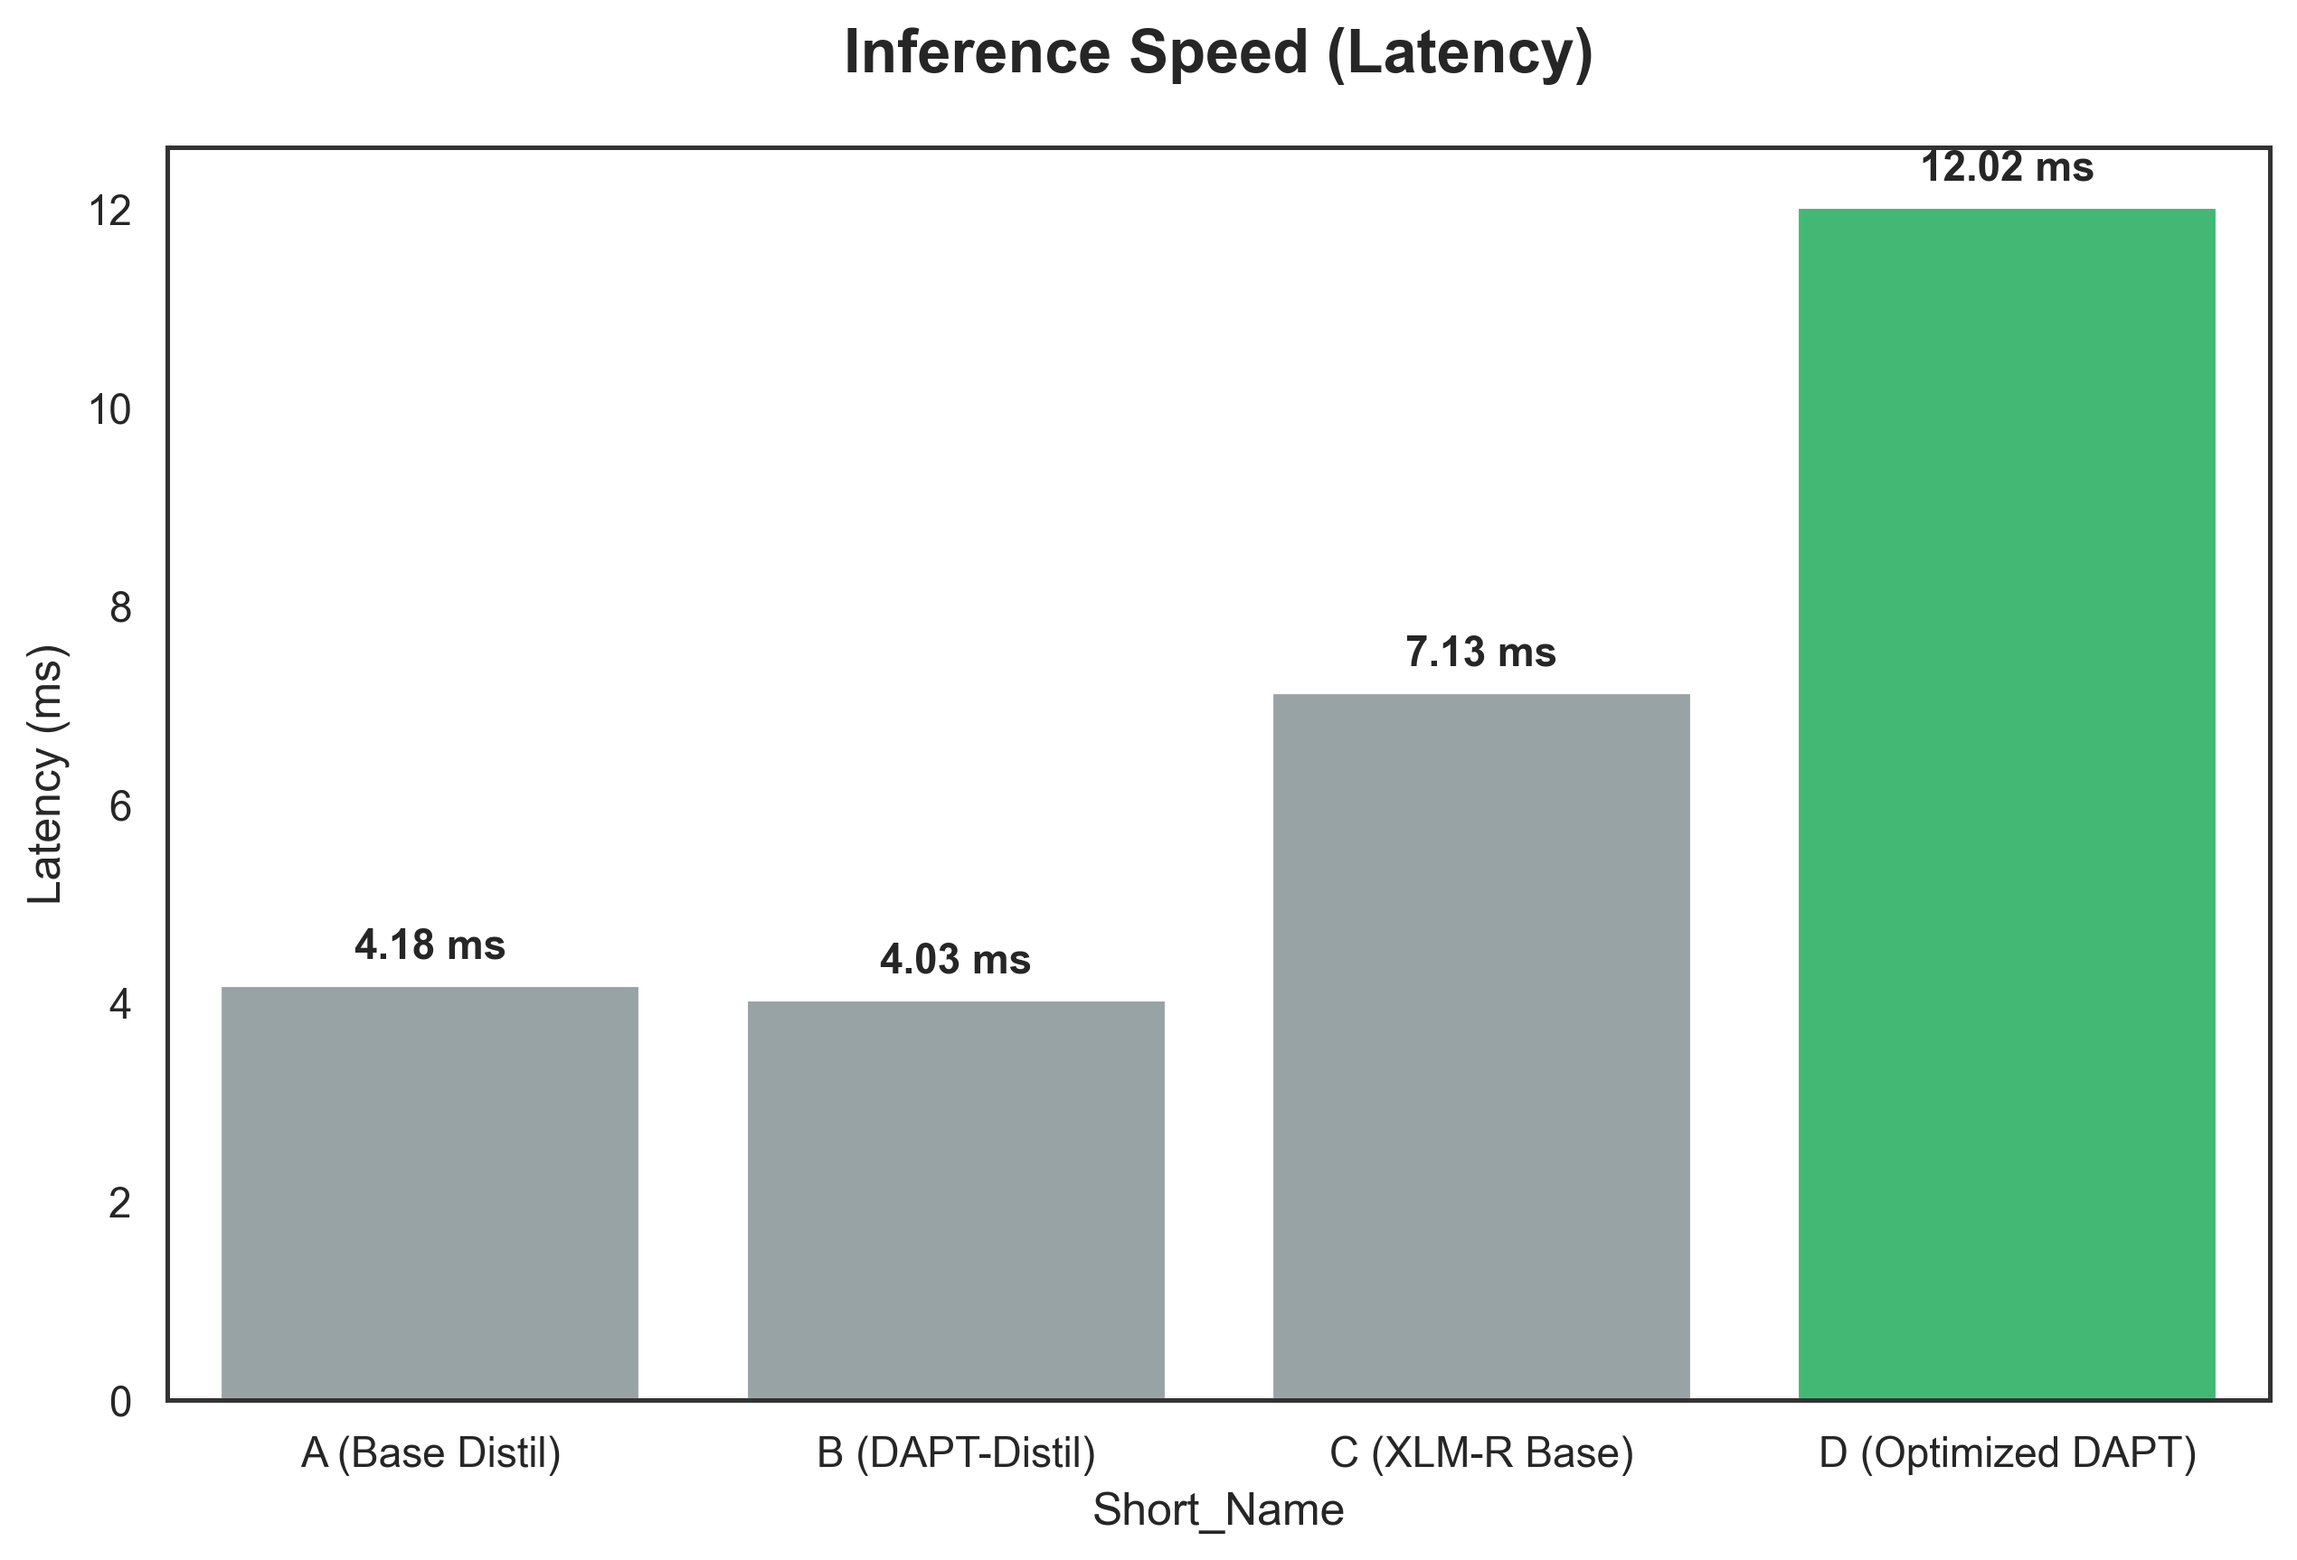
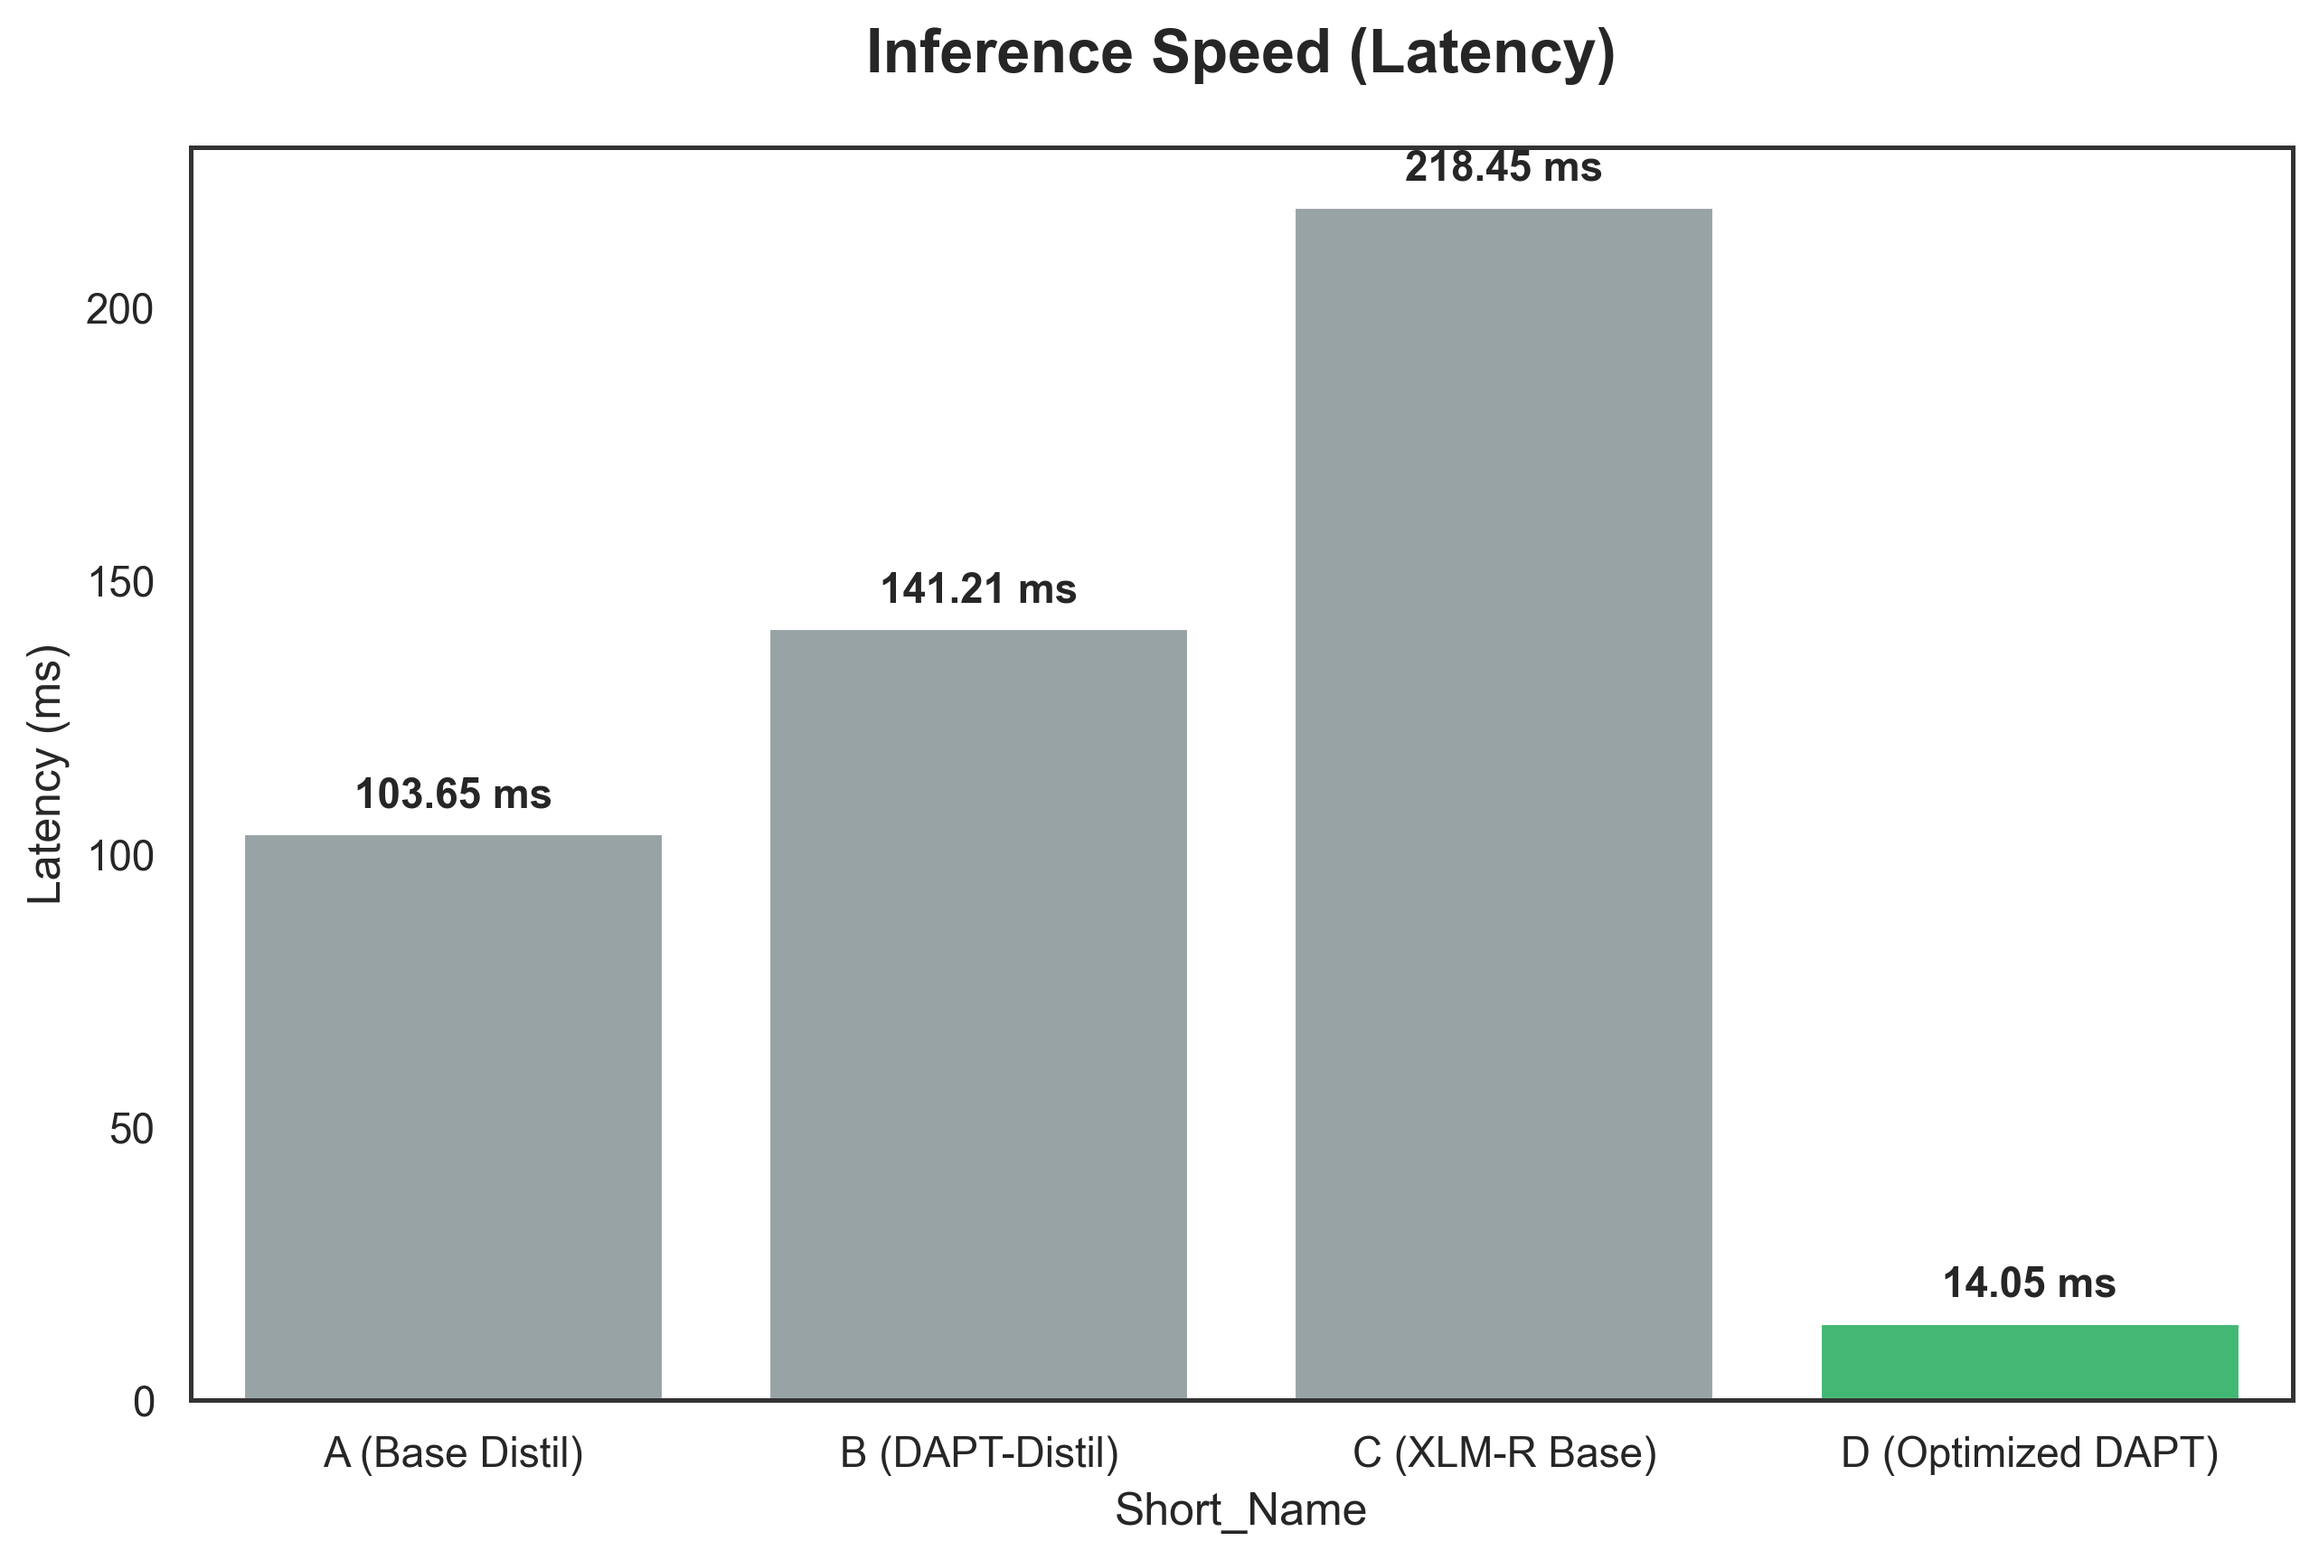
Update latency metrics and evaluation scripts for CPU benchmarking consistency

diff --git a/src/validation/08_evaluate_metrics.py b/src/validation/08_evaluate_metrics.py
@@ -18,28 +18,18 @@ set_seed(42)
 os.environ['CUBLAS_WORKSPACE_CONFIG'] = ':4096:8'
 torch.use_deterministic_algorithms(True, warn_only=True)
 
-# --- SUPER-AGGRESSIVE MONKEY PATCH FOR TRANSFORMERS ---
+# Force single-threaded CPU execution for absolute latency consistency
+torch.set_num_threads(1)
+
+# --- AGGRESSIVE COMPATIBILITY PATCHES ---
 import transformers
 import transformers.models.auto
-
 class MockAutoModelForVision2Seq:
     @classmethod
     def from_pretrained(cls, *args, **kwargs):
-        raise NotImplementedError("This is a mock class for compatibility.")
-
+        raise NotImplementedError("Mock class for compatibility.")
 setattr(transformers, "AutoModelForVision2Seq", MockAutoModelForVision2Seq)
 setattr(transformers.models.auto, "AutoModelForVision2Seq", MockAutoModelForVision2Seq)
-
-if "transformers" in sys.modules:
-    sys.modules["transformers"].AutoModelForVision2Seq = MockAutoModelForVision2Seq
-
-try:
-    if hasattr(transformers, "_import_structure"):
-        transformers._import_structure["models.auto"].append("AutoModelForVision2Seq")
-    if hasattr(transformers, "_class_to_module"):
-        transformers._class_to_module["AutoModelForVision2Seq"] = "models.auto"
-except Exception:
-    pass
 # ------------------------------------------------------
 
 # --- PATH CONFIGURATION ---
@@ -61,8 +51,7 @@ MODELS_TO_TEST = [
 
 def get_model_size_mb(path):
     total_size = 0
-    if not os.path.exists(path):
-        return 0
+    if not os.path.exists(path): return 0
     for dirpath, _, filenames in os.walk(path):
         for f in filenames:
             fp = os.path.join(dirpath, f)
@@ -76,11 +65,13 @@ def load_tokenizer_safe(model_path):
     except Exception:
         return AutoTokenizer.from_pretrained("distilbert-base-multilingual-cased")
 
-def evaluate_pytorch(path, texts, name):
+def evaluate_pytorch_cpu(path, texts, name):
+    """Forces PyTorch to use the CPU for fair hardware benchmarking."""
     tokenizer = load_tokenizer_safe(path)
     model = AutoModelForSequenceClassification.from_pretrained(path)
     
-    device = torch.device('cuda' if torch.cuda.is_available() else 'cpu')
+    # Strictly enforce CPU
+    device = torch.device('cpu')
     model.to(device)
     model.eval()
     
@@ -99,16 +90,24 @@ def evaluate_pytorch(path, texts, name):
             outputs = model(**inputs)
         end_time = time.perf_counter()
         
-        logits = outputs.logits.cpu().numpy()
+        logits = outputs.logits.numpy()
         preds.append(np.argmax(logits, axis=-1)[0])
         latencies.append((end_time - start_time) * 1000)
         
     return preds, latencies
 
-def evaluate_onnx(path, texts, name):
+def evaluate_onnx_cpu(path, texts, name):
+    """Evaluates the quantized ONNX model using the CPU runtime."""
     tokenizer = load_tokenizer_safe(path)
+    # provider is strictly CPU
     model = ORTModelForSequenceClassification.from_pretrained(path, provider="CPUExecutionProvider")
     
+    # Warmup to initialize the ONNX session properly
+    warmup_inputs = tokenizer(texts[0], return_tensors="pt", truncation=True, padding='max_length', max_length=128)
+    if "distilbert" in name.lower() and "token_type_ids" in warmup_inputs:
+        warmup_inputs.pop("token_type_ids")
+    _ = model(**warmup_inputs)
+
     preds = []
     latencies = []
     
@@ -128,7 +127,7 @@ def evaluate_onnx(path, texts, name):
     return preds, latencies
 
 def main():
-    print("--- STAGE 8: FINAL METRICS EVALUATION (DETERMINISTIC) ---")
+    print("--- STAGE 8: FINAL METRICS EVALUATION (FAIR CPU BENCHMARK) ---")
     
     if not os.path.exists(TEST_DATA_PATH):
         print(f"[ERROR] Test data not found: {TEST_DATA_PATH}")
@@ -141,9 +140,10 @@ def main():
     raw_results = []
     
     for model_id, name, path, runtime in MODELS_TO_TEST:
-        print(f"\nEvaluating {name}...")
+        print(f"\nEvaluating {name} strictly on CPU...")
         
         gc.collect()
+        # Ensure PyTorch releases GPU memory completely
         if torch.cuda.is_available():
             torch.cuda.empty_cache()
        
@@ -153,27 +153,33 @@ def main():
            
         try:
             if runtime == "pytorch":
-                preds, latencies = evaluate_pytorch(path, texts, name)
+                preds, latencies = evaluate_pytorch_cpu(path, texts, name)
             else:
-                preds, latencies = evaluate_onnx(path, texts, name)
+                preds, latencies = evaluate_onnx_cpu(path, texts, name)
                
             acc = accuracy_score(labels, preds)
             f1 = f1_score(labels, preds, average='macro')
-            avg_lat = np.mean(latencies)
+            
+            # Extract specific latency metrics
+            avg_lat_overall = np.mean(latencies)
+            lat_100 = np.mean(latencies[:100]) if len(latencies) >= 100 else avg_lat_overall
+            lat_1000 = np.mean(latencies[:1000]) if len(latencies) >= 1000 else avg_lat_overall
             p95_lat = np.percentile(latencies, 95)
             size_mb = get_model_size_mb(path)
            
-            print(f"  Acc: {acc:.4f} | Macro F1: {f1:.4f} | Lat: {avg_lat:.2f}ms | Size: {size_mb:.2f}MB")
+            print(f"  Acc: {acc:.4f} | Macro F1: {f1:.4f} | Avg CPU Lat: {avg_lat_overall:.2f}ms")
            
             raw_results.append({
                 "Model ID": model_id,
                 "Model Name": name,
                 "Accuracy": round(acc, 4),
                 "Macro F1 Score": round(f1, 4),
-                "Avg Latency (ms)": round(avg_lat, 2),
+                "Avg Latency (100 runs) ms": round(lat_100, 2),
+                "Avg Latency (1000 runs) ms": round(lat_1000, 2),
+                "Avg Latency (Overall) ms": round(avg_lat_overall, 2),
                 "P95 Latency (ms)": round(p95_lat, 2),
                 "Model Size (MB)": round(size_mb, 2),
-                "Runtime": runtime.upper()
+                "Runtime": "CPU_ONLY"
             })
             
         except Exception as e:
@@ -182,13 +188,30 @@ def main():
     if raw_results:
         res_df = pd.DataFrame(raw_results)
         
-        if "Avg Latency (ms)" in res_df.columns and len(res_df) > 0:
-            base_lat = res_df.iloc[0]["Avg Latency (ms)"]
-            res_df["Speedup Factor"] = round(base_lat / res_df["Avg Latency (ms)"], 2)
+        if "Avg Latency (Overall) ms" in res_df.columns and len(res_df) > 0:
+            # Base latency is now the CPU latency of Model A
+            base_lat = res_df.iloc[0]["Avg Latency (Overall) ms"]
+            res_df["Speedup Factor"] = round(base_lat / res_df["Avg Latency (Overall) ms"], 2)
 
-        out_path = os.path.join(REPORTS_DIR, "final_metrics.csv")
-        res_df.to_csv(out_path, index=False)
-        print(f"\nSUCCESS: Results saved to {out_path}")
+        # --- EXPORT 1: MAIN RESULTS TABLE ---
+        main_cols = [
+            "Model ID", "Model Name", "Accuracy", "Macro F1 Score", 
+            "Avg Latency (Overall) ms", "P95 Latency (ms)", 
+            "Model Size (MB)", "Runtime", "Speedup Factor"
+        ]
+        main_path = os.path.join(REPORTS_DIR, "final_metrics.csv")
+        res_df[main_cols].to_csv(main_path, index=False)
+        
+        # --- EXPORT 2: HARDWARE STABILITY TABLE ---
+        stability_cols = [
+            "Model Name", "Avg Latency (100 runs) ms", 
+            "Avg Latency (1000 runs) ms", "Avg Latency (Overall) ms"
+        ]
+        stability_path = os.path.join(REPORTS_DIR, "latency_stability.csv")
+        res_df[stability_cols].to_csv(stability_path, index=False)
+        
+        print(f"\nSUCCESS: Main evaluation saved to {main_path}")
+        print(f"SUCCESS: Stability evaluation saved to {stability_path}")
 
 if __name__ == "__main__":
     main()

diff --git a/src/validation/10_visualize_results.py b/src/validation/10_visualize_results.py
@@ -1,3 +1,4 @@
+# FILE: 10_visualize_results.py
 import pandas as pd
 import matplotlib.pyplot as plt
 import seaborn as sns
@@ -52,7 +53,8 @@ def generate_visualizations():
     # --- FIX: ROBUST COLUMN MAPPING & DEDUPLICATION ---
     rename_map = {
         "Macro F1 Score": "Macro_F1",
-        "Avg Latency (ms)": "Latency_ms",
+        "Avg Latency (Overall) ms": "Latency_ms",  # Maps the new overall latency column
+        "Avg Latency (ms)": "Latency_ms",          # Fallback if old column exists
         "Speedup Factor": "Speedup"
     }
     df = df.rename(columns=rename_map)
@@ -79,7 +81,7 @@ def generate_visualizations():
 
     # --- PLOTTING & CSV GENERATION ---
     
-    # # 1. Macro F1
+    # 1. Macro F1
     if "Macro_F1" in df.columns:
         dir_01 = os.path.join(FIGURES_DIR, "01_macro_f1_score")
         os.makedirs(dir_01, exist_ok=True)
@@ -106,7 +108,7 @@ def generate_visualizations():
         plt.close()
         print("Saved Image: 1_macro_f1_score.png")
 
-    # # 2. Latency
+    # 2. Latency
     if "Latency_ms" in df.columns:
         dir_02 = os.path.join(FIGURES_DIR, "02_inference_latency")
         os.makedirs(dir_02, exist_ok=True)
@@ -131,7 +133,7 @@ def generate_visualizations():
         plt.close()
         print("Saved Image: 2_inference_latency.png")
 
-    # # 3. Model Size
+    # 3. Model Size
     if "Storage_MB" in df.columns:
         dir_03 = os.path.join(FIGURES_DIR, "03_model_size")
         os.makedirs(dir_03, exist_ok=True)
@@ -237,9 +239,7 @@ def generate_visualizations():
         else:
             print("[SKIP] Inter-Architecture Benchmarking (Missing latency data for XLM-R or Optimized DAPT).")
 
-    print(f"\n[COMPLETE] Speedup Figures and CSV files saved to: {dir_04}")
-
-    # # 5. Retention
+    # 5. Retention
     if "Retention_Pct" in df.columns:
         dir_05 = os.path.join(FIGURES_DIR, "05_performance_retention")
         os.makedirs(dir_05, exist_ok=True)
@@ -264,7 +264,7 @@ def generate_visualizations():
         plt.close()
         print("Saved Image: 5_performance_retention.png")
 
-    # # 6. Pareto Frontier
+    # 6. Pareto Frontier
     if "Latency_ms" in df.columns and "Macro_F1" in df.columns:
         dir_06 = os.path.join(FIGURES_DIR, "06_pareto_frontier")
         os.makedirs(dir_06, exist_ok=True)
@@ -310,7 +310,7 @@ def generate_visualizations():
         plt.close()
         print("Saved Image: 6_pareto_frontier.png")
 
-    print(f"\n[COMPLETE] Speedup Figures and CSV files saved to: {dir_04}")
+    print(f"\n[COMPLETE] All Visualizations and CSV files saved successfully to: {FIGURES_DIR}")
 
 if __name__ == "__main__":
     generate_visualizations()
